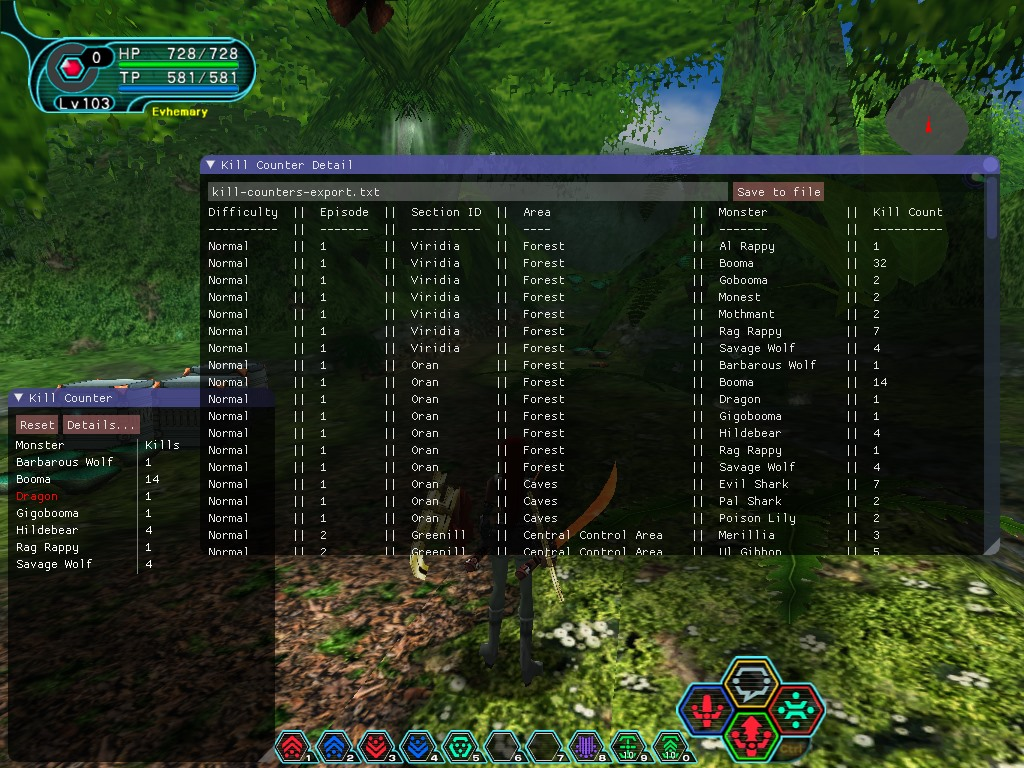
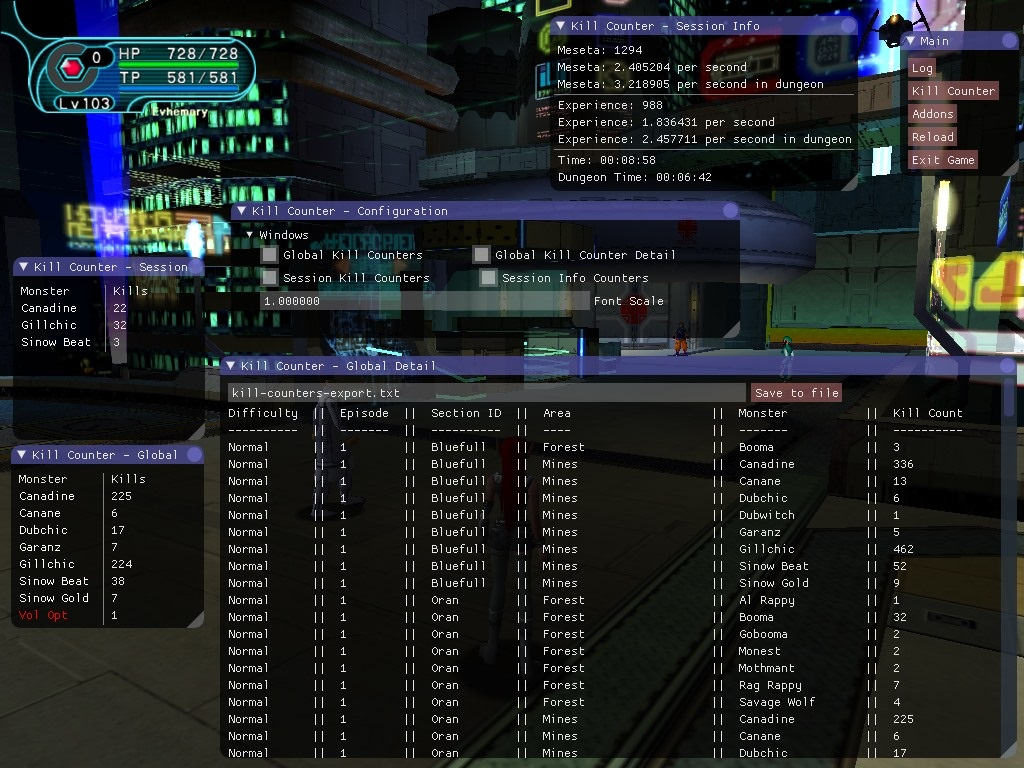
Updated screenshots.

diff --git a/README.md b/README.md
@@ -24,5 +24,5 @@ For more in-depth information on how the Kill Counter works, please visit the
 
 ## Screenshots
 ![forest.jpg](screenshots/forest.jpg)
-![caves.jpg](screenshots/caves.jpg)
+![mines.jpg](screenshots/mines.jpg)
 ![detail.jpg](screenshots/detail.jpg)
